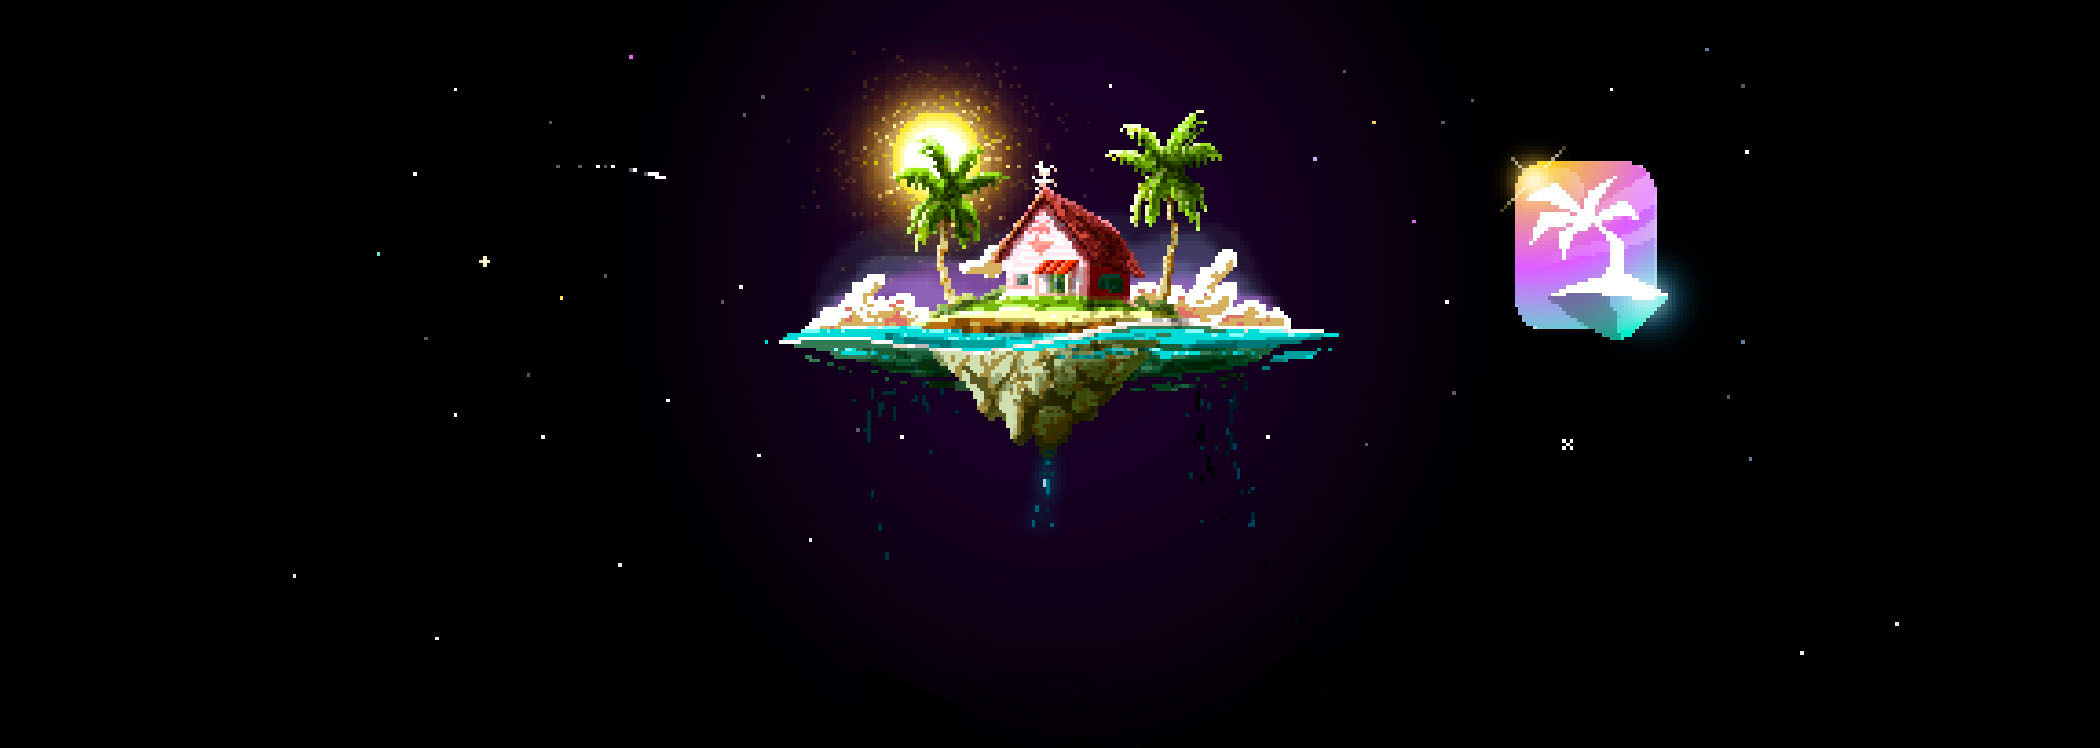
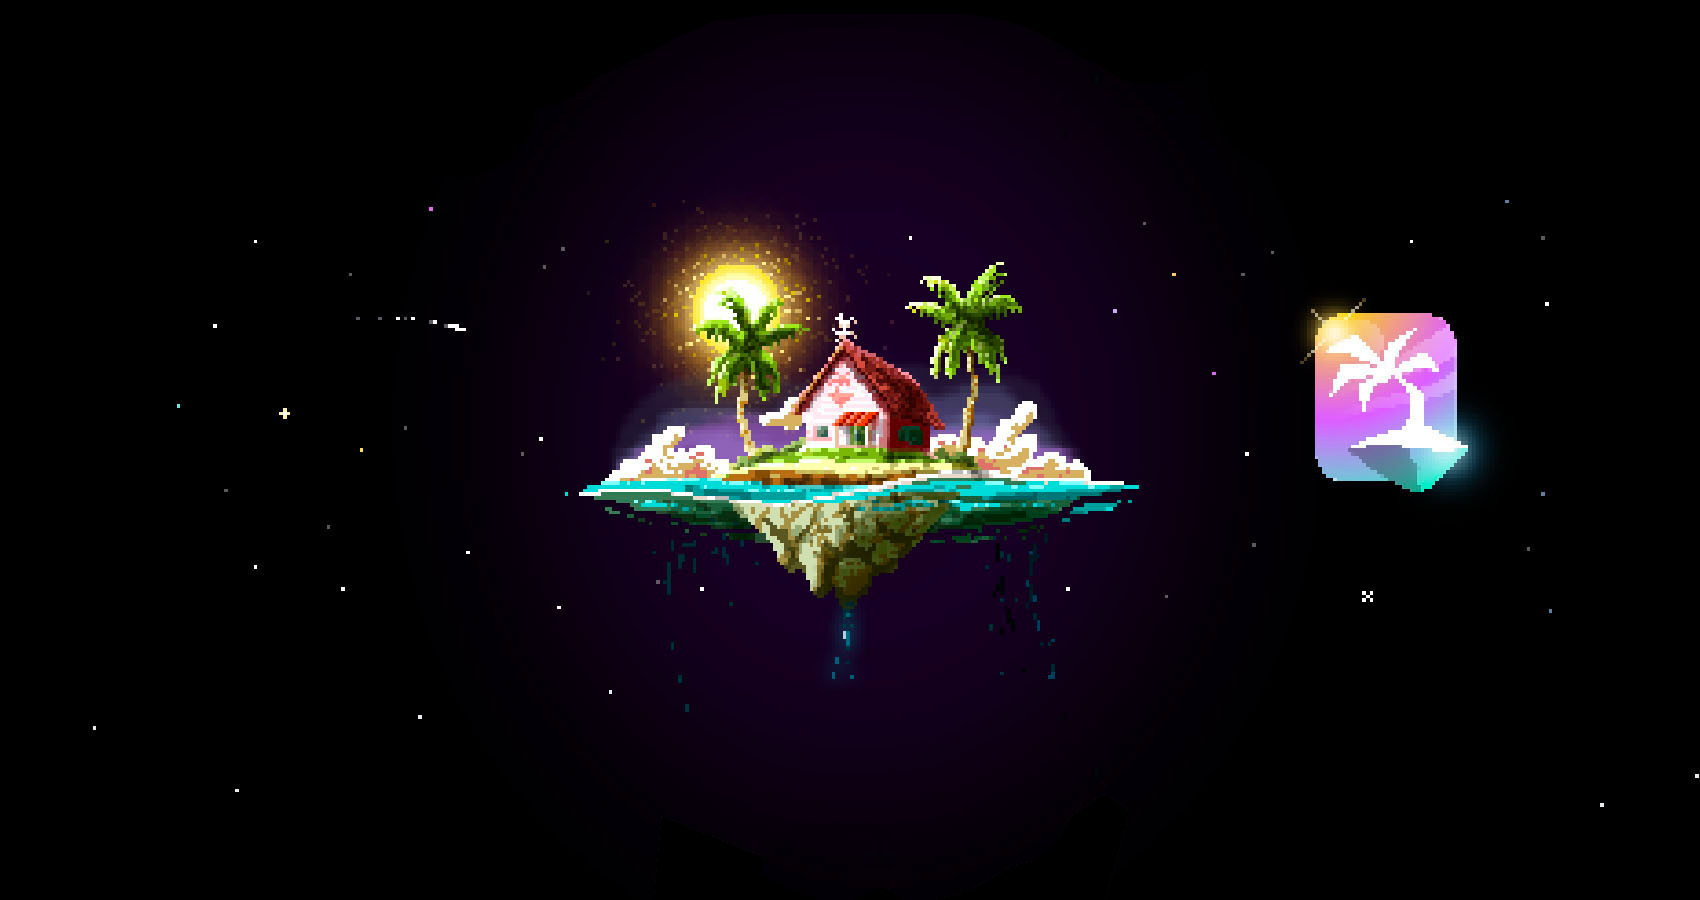
feat(leaderboard:next): design + color changes

diff --git a/leaderboard/next/src/components/interface/Leaderboard/Owner.tsx b/leaderboard/next/src/components/interface/Leaderboard/Owner.tsx
@@ -3,7 +3,6 @@ import tw from 'twin.macro'
 
 import { Link } from '@/components/Link'
 import { Avatar } from '../Avatar'
-import { makeShortAddress } from '@/modules/util/address'
 import { BarChart2 } from 'react-feather'
 
 export interface OwnerProps {
@@ -13,15 +12,16 @@ export interface OwnerProps {
   text?: string
 }
 
-const OwnerFrame = tw.div`w-full mt-8 text-lg text-center text-white border bg-mandy-500 rounded-xl border-mandy-500`
+const OwnerFrame = tw.div`w-full mt-8 text-lg text-center text-white border-2 bg-darked-700 rounded-xl border-darked-600`
 
-const DetailFrame = tw.div`flex flex-row items-center justify-between p-4 space-x-4 rounded-xl bg-darked-800`
+const DetailFrame = tw.div`flex flex-row items-center justify-between p-4 space-x-4 rounded-xl bg-darked-900`
 
-const NamedAvatar = tw.div`flex flex-row items-center space-x-4`
+const NamedAvatar = tw.div`flex flex-row items-center max-w-full space-x-4 overflow-hidden`
+const TruncLink = tw(Link)`truncate`
 
-const Description = tw.p`p-2 text-mandy-100`
+const Description = tw.p`p-2 text-white`
 
-const Valuation = tw.p`space-x-2`
+const Valuation = tw.p`space-x-2 whitespace-nowrap`
 const ValueIcon = tw(BarChart2)`inline-block w-4 h-4 text-white`
 
 export const Owner: React.FC<OwnerProps> = ({
@@ -35,9 +35,12 @@ export const Owner: React.FC<OwnerProps> = ({
     <DetailFrame>
       <NamedAvatar>
         <Avatar address={address} size={42} />
-        <Link external={true} url={'https://etherscan.io/address/' + address}>
-          {name ? name : makeShortAddress(address)}
-        </Link>
+        <TruncLink
+          external={true}
+          url={'https://etherscan.io/address/' + address}
+        >
+          {name ? name : address}
+        </TruncLink>
       </NamedAvatar>
       <Valuation>
         <span>{valuation}</span>

diff --git a/leaderboard/next/src/modules/landing/index.tsx b/leaderboard/next/src/modules/landing/index.tsx
@@ -1,7 +1,7 @@
 import type { NextPage } from 'next'
-import Image from 'next/image'
 import React from 'react'
 import tw from 'twin.macro'
+import styled from 'styled-components'
 
 import { DefaultLayout } from '../layouts/Default'
 import { HeadController } from '@/components/HeadController'
@@ -9,26 +9,12 @@ import { Leaderboard } from '@/components/interface/Leaderboard'
 import { Container } from '@/components/interface/util/Container'
 import { DetailsModal } from '@/components/interface/DetailsModal'
 
-const BackgroundFrame = tw.div`absolute top-0 left-0 right-0 w-full h-full overflow-hidden`
+const LandingContainer = styled(Container)`
+  margin-top: 450px;
+  ${tw`flex flex-col items-center h-full`}
+`
 
-const BackgroundImage: React.FC = () => {
-  return (
-    <BackgroundFrame>
-      <Image
-        alt=""
-        src="/pixel_top.png"
-        layout="fill"
-        objectFit="none"
-        objectPosition="top"
-        quality={100}
-      />
-    </BackgroundFrame>
-  )
-}
-
-const LandingContainer = tw(Container)`z-10 flex flex-col items-center h-full`
-
-const Title = tw.h1`p-8 text-4xl text-center uppercase text-mandy-500`
+const Title = tw.h1`p-8 text-3xl text-center text-white uppercase sm:text-5xl`
 
 export const LandingPage: NextPage = () => (
   <>

diff --git a/leaderboard/next/src/components/interface/Web3Status/Status.tsx b/leaderboard/next/src/components/interface/Web3Status/Status.tsx
@@ -8,7 +8,7 @@ import { makeShortAddress } from '@/modules/util/address'
 const Container = tw.div`inline-flex flex-row items-center bg-darked-800 rounded-xl`
 
 const Content = tw.div`flex flex-row items-center p-1 pl-4 pr-4 space-x-2 flex-nowrap`
-const MainContent = tw(Content)`bg-mandy-500 rounded-xl hover:cursor-pointer`
+const MainContent = tw(Content)`bg-darked-600 rounded-xl hover:cursor-pointer`
 
 const Text = tw.p`text-white whitespace-nowrap`
 
@@ -47,7 +47,11 @@ export const Web3StatusBase: React.FC<Web3StatusProps> = ({
   if (address) {
     return (
       <Container>
-        <Content>{rank && <Text># {rank}</Text>}</Content>
+        {rank && (
+          <Content>
+            <Text># {rank}</Text>
+          </Content>
+        )}
         <MainContent onClick={onWantEdit}>
           <Text>{makeShortAddress(address)}</Text>
           <Avatar address={address} />

diff --git a/leaderboard/next/src/components/interface/Leaderboard/index.tsx b/leaderboard/next/src/components/interface/Leaderboard/index.tsx
@@ -1,13 +1,13 @@
-import React, { useCallback, useEffect, useState } from 'react'
+import React, { useCallback } from 'react'
 import tw from 'twin.macro'
 
 import { useLeaderboardQuery } from '@/modules/hooks/graph'
 import { OwnerList } from './OwnerList'
 import { ScrollObserver } from '@/components/ScrollObserver'
 
-const BoardFrame = tw.div`flex flex-col items-center w-full space-y-12 text-white md:w-1/2`
+const BoardFrame = tw.div`flex flex-col items-center w-full max-w-4xl space-y-12 text-center text-white`
 
-const Notice = tw.div`text-mandy-500 font-head`
+const Notice = tw.div`font-head`
 
 export const Leaderboard: React.FC = () => {
   const { data, error, loading, fetchMore } = useLeaderboardQuery({

diff --git a/leaderboard/next/src/components/interface/DetailsModal/DetailsInput.tsx b/leaderboard/next/src/components/interface/DetailsModal/DetailsInput.tsx
@@ -11,7 +11,7 @@ const InputContainer = tw.div`space-y-2`
 const StyledInput = tw.input`w-full p-4 text-white outline-none placeholder-darked-600 bg-darked-800 rounded-xl`
 
 const StyledButton = tw.button`
-  w-full p-4 rounded-xl text-white bg-mandy-500 
+  w-full p-4 rounded-xl text-white bg-darked-600 
   disabled:(cursor-default bg-darked-700 text-darked-600)`
 
 export interface DetailsInputProps {

diff --git a/leaderboard/next/src/components/interface/ModalBase/index.tsx b/leaderboard/next/src/components/interface/ModalBase/index.tsx
@@ -16,7 +16,7 @@ const StyledOverlay = tw(
 
 const AnimatedOverlay = animated(StyledOverlay)
 
-const ContentStyle = tw`w-1/4 p-0 text-white border-2 border-darked-700 rounded-xl bg-darked-900`
+const ContentStyle = tw`w-full max-w-xl p-0 m-8 text-white border-2 rounded-xl border-darked-700 bg-darked-900`
 
 const StyledContent = styled(DialogContent).attrs({ 'aria-label': 'dialog' })(
   ContentStyle,

diff --git a/leaderboard/next/src/components/Link.tsx b/leaderboard/next/src/components/Link.tsx
@@ -10,9 +10,10 @@ export const Link: React.FC<LinkProps> = ({
   children,
   external = false,
   url,
+  ...rest
 }) =>
   external ? (
-    <a href={url} rel="noreferrer noopener" target="_blank">
+    <a href={url} rel="noreferrer noopener" target="_blank" {...rest}>
       {children}
     </a>
   ) : (

diff --git a/leaderboard/next/src/styles/globals.scss b/leaderboard/next/src/styles/globals.scss
@@ -9,8 +9,9 @@ body,
 }
 
 #__next {
-  @apply bg-darked-900;
-  // @apply bg-black;
+  background-image: url('/head_cut.png'), url('/fall.png');
+  background-repeat: no-repeat, repeat-y;
+  @apply bg-black bg-top bg-auto;
 }
 
 a {

diff --git a/leaderboard/next/src/components/interface/Leaderboard/OwnerList.tsx b/leaderboard/next/src/components/interface/Leaderboard/OwnerList.tsx
@@ -13,6 +13,7 @@ export const OwnerList: React.FC<OwnerListProps> = ({ list }) => {
   const trail = useTrail(list.length, {
     opacity: 1,
     from: { opacity: 0 },
+    config: { duration: 200 },
   })
 
   return (

diff --git a/leaderboard/next/src/components/ScrollObserver.tsx b/leaderboard/next/src/components/ScrollObserver.tsx
@@ -1,4 +1,4 @@
-import React, { MutableRefObject, useEffect, useRef, useState } from 'react'
+import React, { useEffect, useRef, useState } from 'react'
 
 export interface ScrollObserverProps {
   doEnter: () => any
